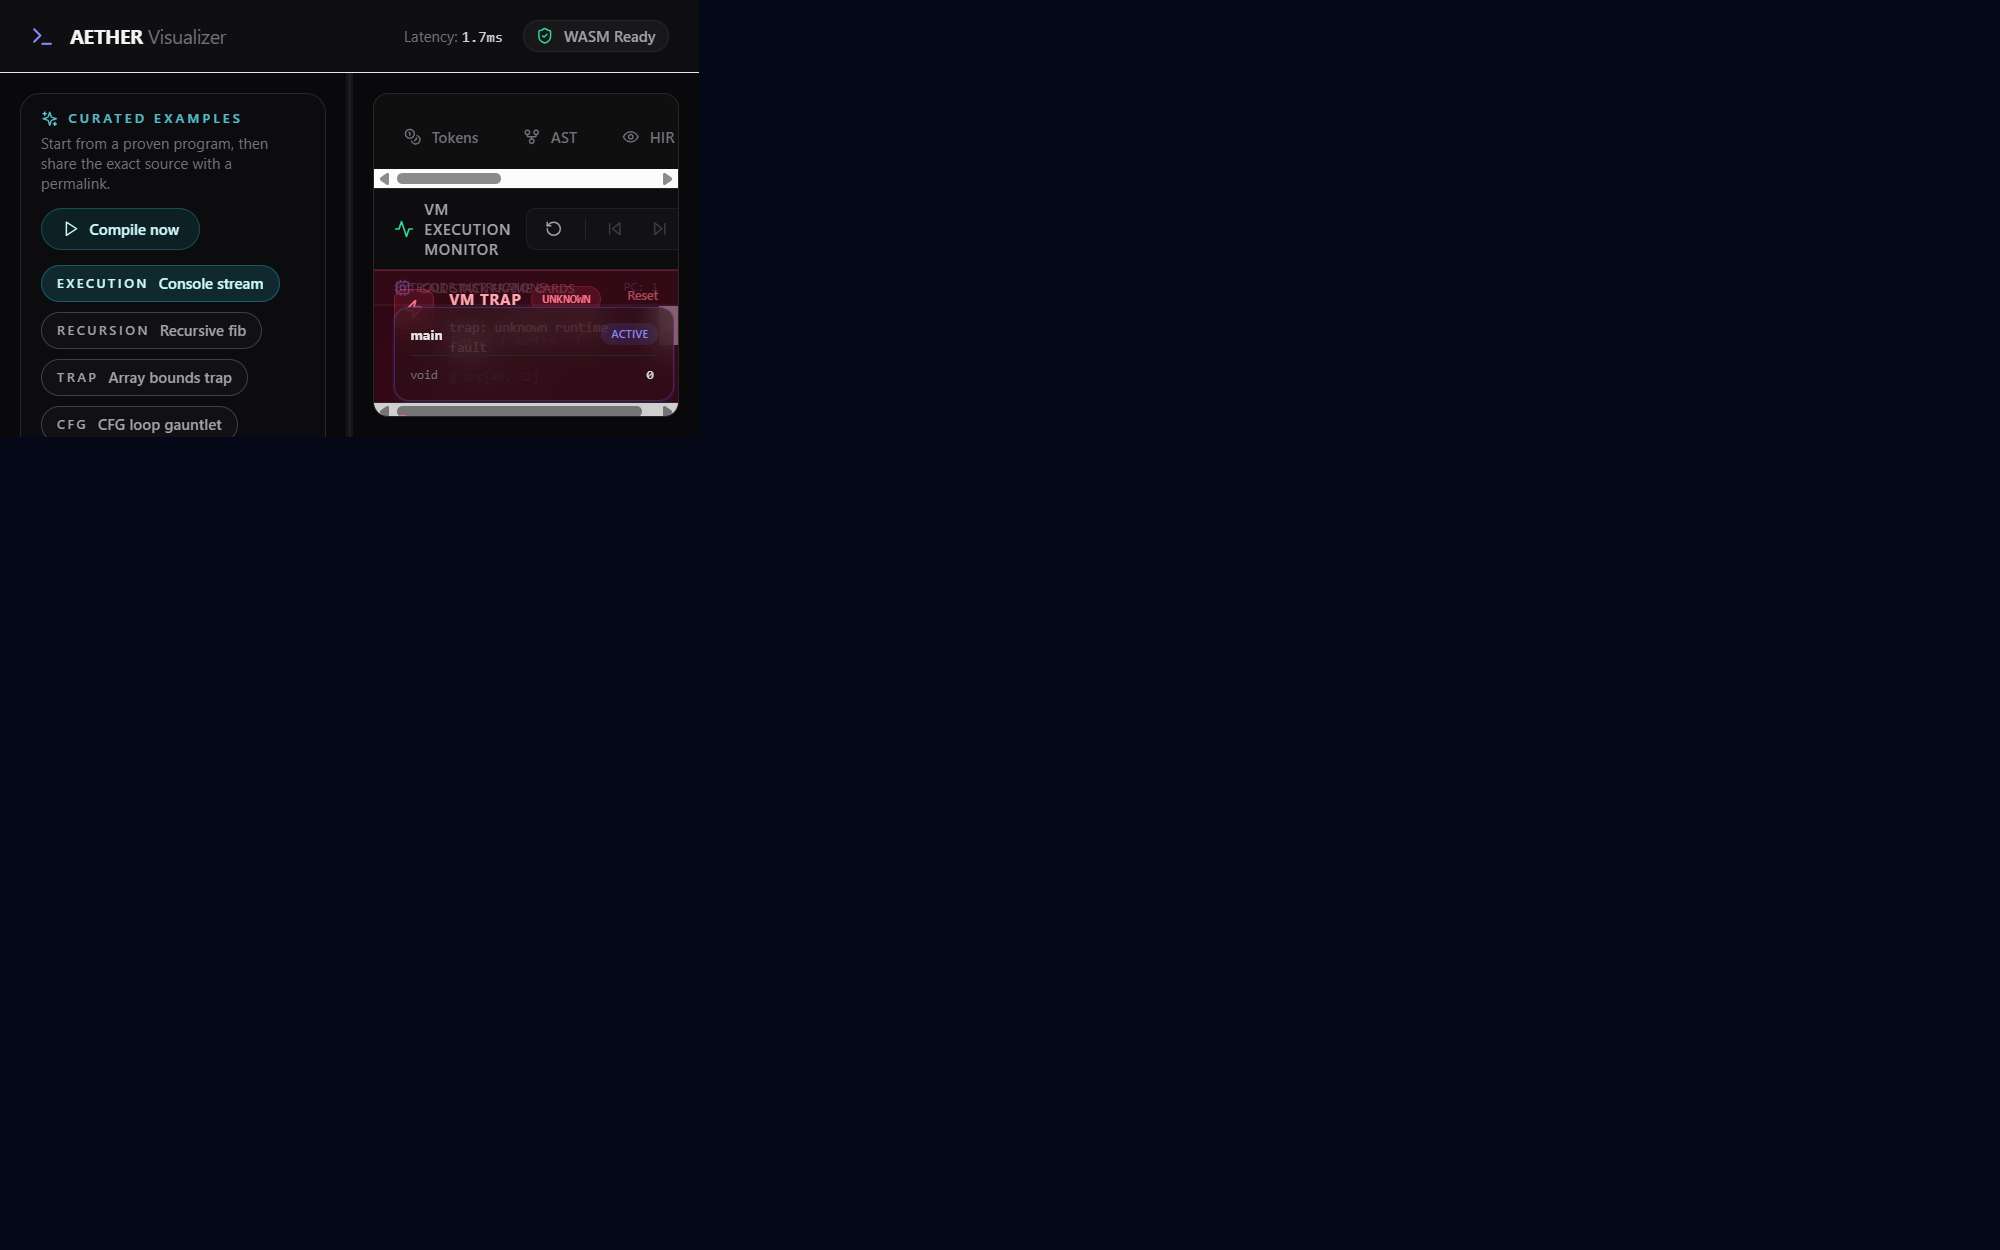
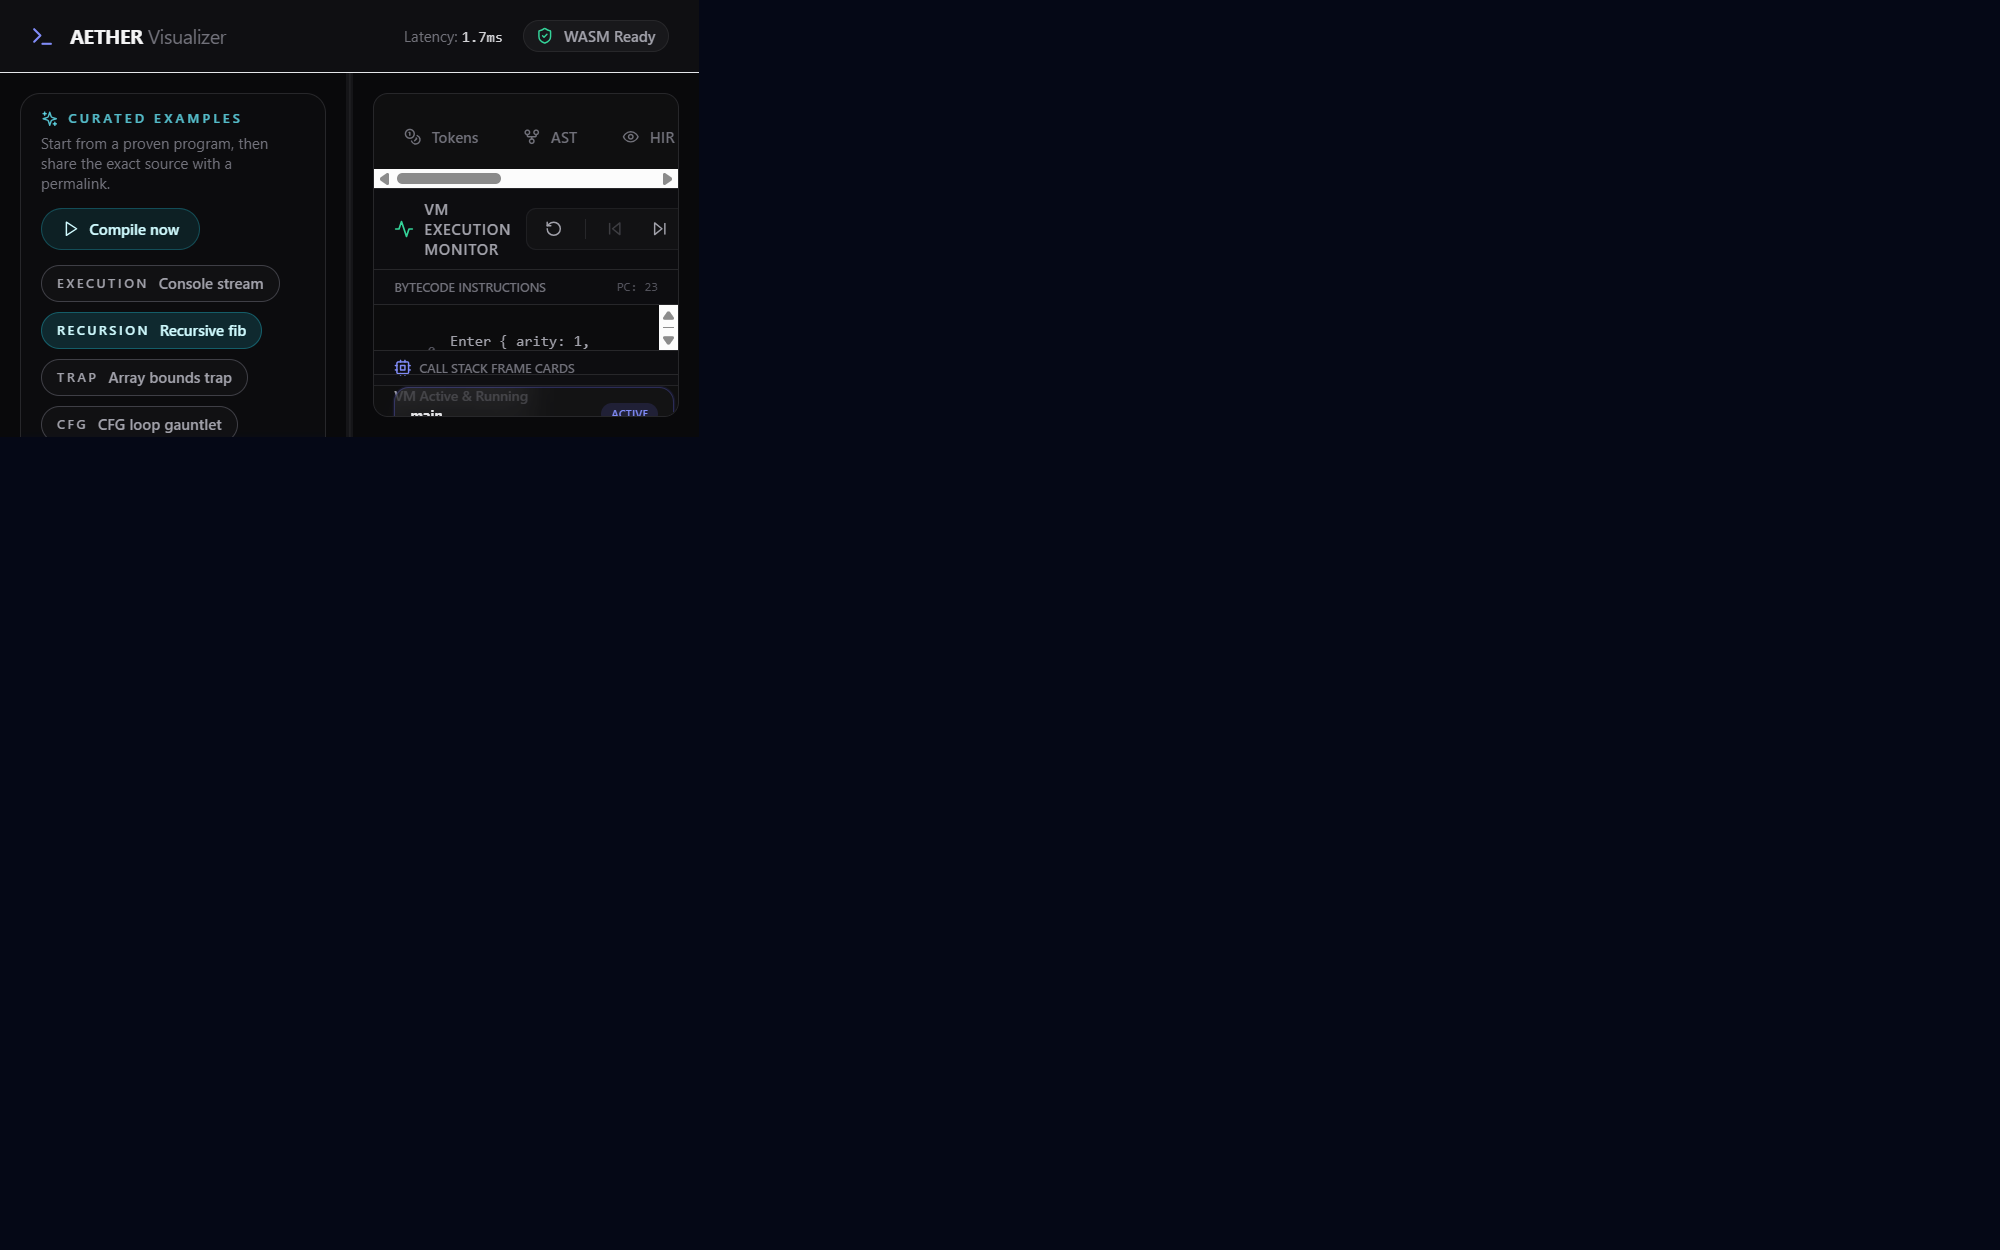
Implement code changes to enhance functionality and improve performance

Changed region(s): [[0.186, 0.2184, 0.341, 0.3432], [0.0, 0.1872, 0.155, 0.2808]]

diff --git a/apps/web/src/utils/examplePrograms.ts b/apps/web/src/utils/examplePrograms.ts
@@ -59,14 +59,11 @@ const structPointerSource = [
 ].join('\n');
 
 const consoleSource = [
-  'int putchar(int c);',
   'int main(void) {',
-  '    putchar(\'b\');',
-  '    putchar(\'o\');',
-  '    putchar(\'o\');',
-  '    putchar(\'t\');',
-  '    putchar(\'\\n\');',
-  '    return 0;',
+  '    int value = 1;',
+  '    value = value + 2;',
+  '    value = value + 3;',
+  '    return value;',
   '}',
   '',
 ].join('\n');
@@ -74,8 +71,8 @@ const consoleSource = [
 export const EXAMPLE_PROGRAMS: ExampleProgram[] = [
   {
     id: 'console-stream',
-    title: 'Console stream',
-    summary: 'Three printf calls to prove step-by-step stdout streaming.',
+    title: 'Execution warmup',
+    summary: 'Straight-line arithmetic that compiles instantly.',
     tag: 'Execution',
     source: consoleSource,
   },

diff --git a/apps/web/src/components/ExecutionPanel.tsx b/apps/web/src/components/ExecutionPanel.tsx
@@ -193,7 +193,7 @@ export default function ExecutionPanel() {
   // Transport handlers
   // ---------------------------------------------------------------------------
 
-  const handleStepForward = () => {
+  const handleStepForward = useCallback(() => {
     if (!vmRef.current) return;
 
     try {
@@ -211,7 +211,7 @@ export default function ExecutionPanel() {
         setHighlightedSpan(trap.span);
       }
     }
-  };
+  }, [activeSnapshot, setActiveSnapshot, setConsoleOutput, setHistoryCount, setTrapInfo, setHighlightedSpan]);
 
   const handleStepBackward = () => {
     if (!vmRef.current) return;